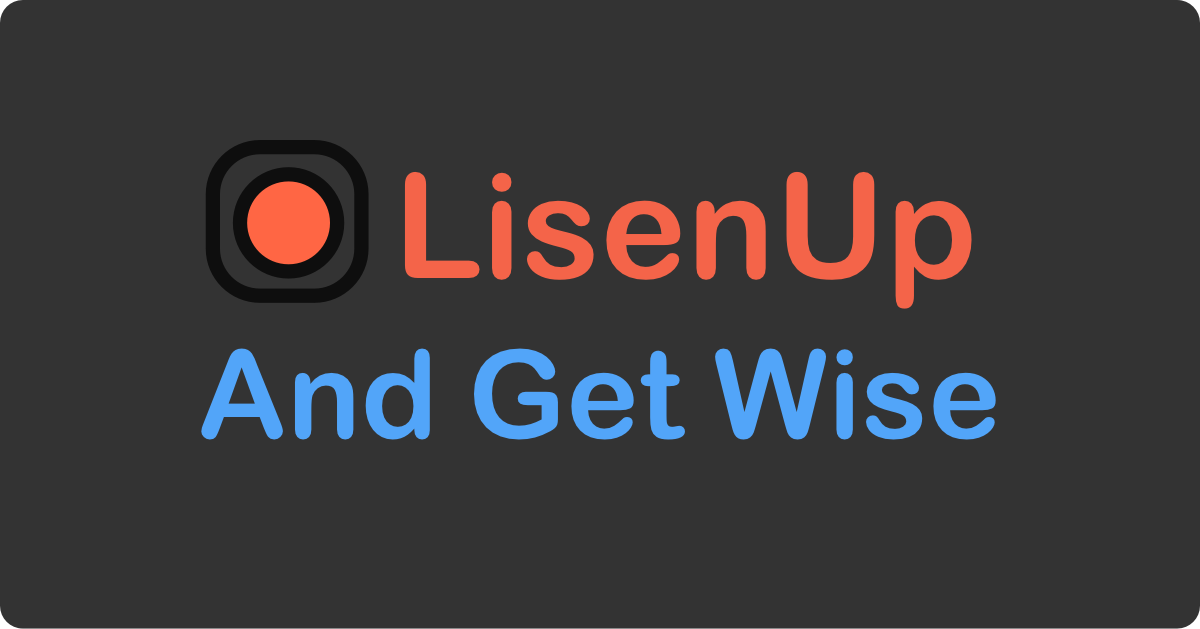
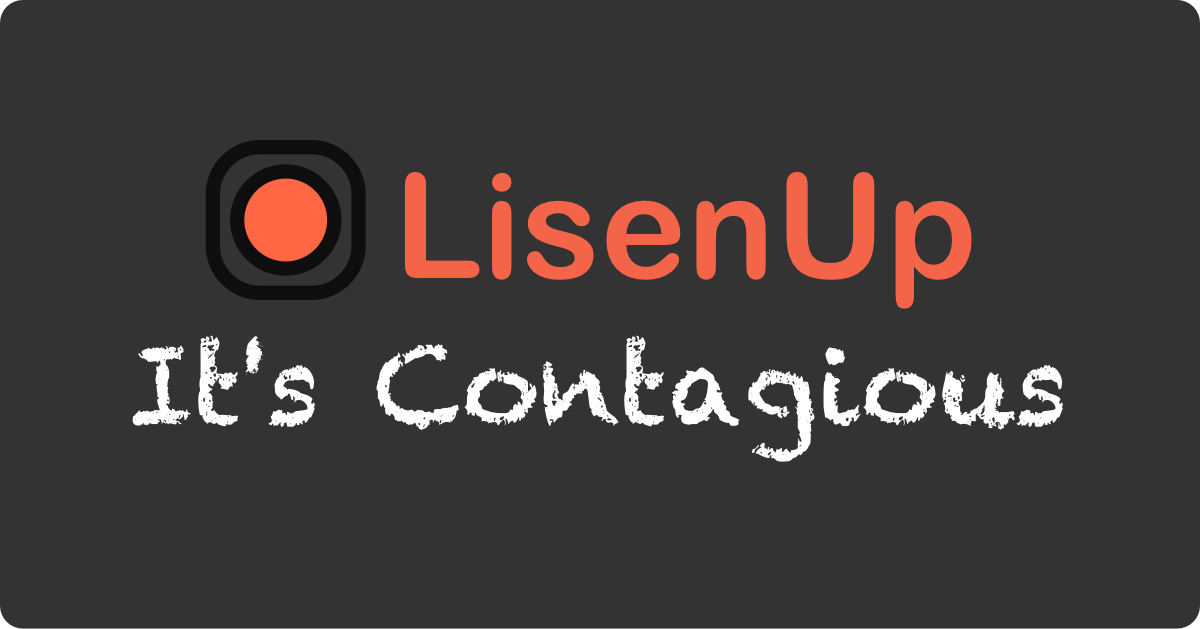
went back to It's Contagious mission statement

Changed region(s): [[0.0925, 0.5135, 0.8942, 0.7552], [0.185, 0.2417, 0.3083, 0.4833], [0.185, 0.2417, 0.2467, 0.3927]]

diff --git a/src/main/resources/templates/index.html b/src/main/resources/templates/index.html
@@ -5,19 +5,19 @@
     <meta http-equiv="X-UA-Compatible" content="IE=edge">
     <meta name="viewport" content="width=device-width, initial-scale=1">
     <!-- The above 3 meta tags *must* come first in the head; any other head content must come *after* these tags -->
-    <meta name="description" content="LisenUp is the feedback engine based on two Biblical principles. First, to succeed, get advise from many people. Second, people actually enjoy giving you their feedback.">
+    <meta name="description" content="If you are the kind of person who knows what they want and willing to improve things by telling whomever is responsible - Don't you get it? Then LisenUp!">
     <meta name="author" content="LisenUp">
 	<meta name="robots" content="noodp">
 	<meta name="twitter:card" content="summary">
-	<meta name="twitter:description" content="LisenUp is the feedback engine based on two Biblical principles. First, to succeed, get advise from many people. Second, people actually enjoy giving you their feedback.">
-	<meta name="twitter:title" content="LisenUp And Get Wise">
+	<meta name="twitter:description" content="If you are the kind of person who knows what they want and willing to improve things by telling whomever is responsible - Don't you get it? Then LisenUp!">
+	<meta name="twitter:title" content="LisenUp - It's Contagious!">
 	<meta name="twitter:site" content="@JoinLisenUp">
 	<meta name="twitter:image" content="https://lisenup.com/assets/img/LisenUp_About1200.png">
 	<meta name="twitter:creator" content="@JoinLisenUp">
 	
 	<link rel="icon" href="favicon.ico">
 
-    <title>LisenUp And Get Wise</title>
+    <title>LisenUp - It's Contagious!</title>
 
     <!-- Bootstrap core CSS -->
     <link href="/bootstrap-3.3.7-dist/css/bootstrap.min.css" rel="stylesheet">
@@ -42,27 +42,28 @@
         <nav>
           <ul class="nav nav-pills pull-right">
             <li role="presentation" class="active"><a href="http://eepurl.com/cE8PY5">Sign Up</a></li>
-            <!-- <li role="presentation" class="active"><a href="/about">About</a></li> -->
+            <!-- <li role="presentation"><a href="/about">About</a></li> -->
             <!-- <li role="presentation"><a href="#">Contact</a></li> -->
           </ul>
         </nav>
         <!-- <h3 class="text-muted">LisenUp</h3> -->
-        <a class="navbar-brand" href="/"><img src="/assets/img/LisenUp-logo-home-page.png" alt="LisenUp"></a>
+        <a class="navbar-brand" href="/"><img src="/assets/img/logo_color.png" alt="LisenUp"></a>
       </div>
 
       <div class="jumbotron">
         <h1>LisenUp</h1>
-        <p class="lead">And Get Wise</p>
         <!-- <h2>It's Contagious!</h2> -->
+        <p class="lead">It's Contagious!</p>
         <!-- <a class="btn btn-lg btn-success" href="https://eepurl.com/cE8PY5" role="button">Join Us!</a> -->
-		<h2>Proverbs 15:22</h2>
-		<p class="lead"><i>"Plans fail for lack of counsel, but with many advisers they succeed."</i></p>
-		<h2>Proverbs 15:23</h2>
-		<p class="lead"><i>"A person finds joy in giving an apt reply — and how good is a timely word!"</i></p>
       </div>
 
+<p class="lead">If you are the kind of person who knows what they want and willing to improve things by telling whomever is responsible - "<mark>Don't you get it?</mark>" Then you've come to the right place!</p>
 
-<p class="lead"><strong>LisenUp</strong> is the feedback engine based on two Biblical principles. First, to succeed, get advise from many people. Second, people actually enjoy giving you their feedback.</p> 
+<p class="lead">Imagine the day when you can instantly reach those people and companies that are doing these irritating things and influence them with your feedback? That would make a world of difference!</p>
+
+<p class="lead">The problem is that these people don't even know they are doing something wrong, so they are not looking for your feedback. To make them notice we need a <mark>movement so contagious</mark> that they will have no other choice but to join in. So we started <strong>LisenUp</strong> to become that movement.</p>
+
+<p class="lead">We believe that if enough of us show by example, that candid feedback matters, then it will create a "<mark>tipping point</mark>" and spread like wildfire. And engulf everyone including those who today think they don't need any feedback.</p>
 
 <p class="lead">Want to see what it's like to leave feedback using <strong>LisenUp</strong>?  Then visit our Co-Founder's LisenUp page and leave your feedback on our mission statement you read here:</p>
 
@@ -79,10 +80,6 @@
       <footer class="footer">
         <p>&copy; 2017 <a href="https://lisenup.com">LisenUp</a></p>
       </footer>
-
-<div class="text-center">
-	<p class="text-muted"><small>Scripture taken from the Holy Bible, NEW INTERNATIONAL VERSION®, NIV® Copyright © 1973, 1978, 1984, 2011 by Biblica, Inc.® Used by permission. All rights reserved worldwide.</small></p>
-</div>
 
     </div> <!-- /container -->
 

diff --git a/src/main/resources/templates/body.html b/src/main/resources/templates/body.html
@@ -16,7 +16,7 @@
             <span class="icon-bar"></span>
           </button>
           <!-- <a class="navbar-brand" href="#">Project name</a> -->
-          <a class="navbar-brand" href="/"><img src="/assets/img/LisenUp-logo-home-page.png" alt="LisenUp"></a>
+          <a class="navbar-brand" href="/"><img src="/assets/img/logo_mono.png" alt="LisenUp"></a>
         </div>
         <div id="navbar" class="collapse navbar-collapse">
           <ul class="nav navbar-nav navbar-right">
